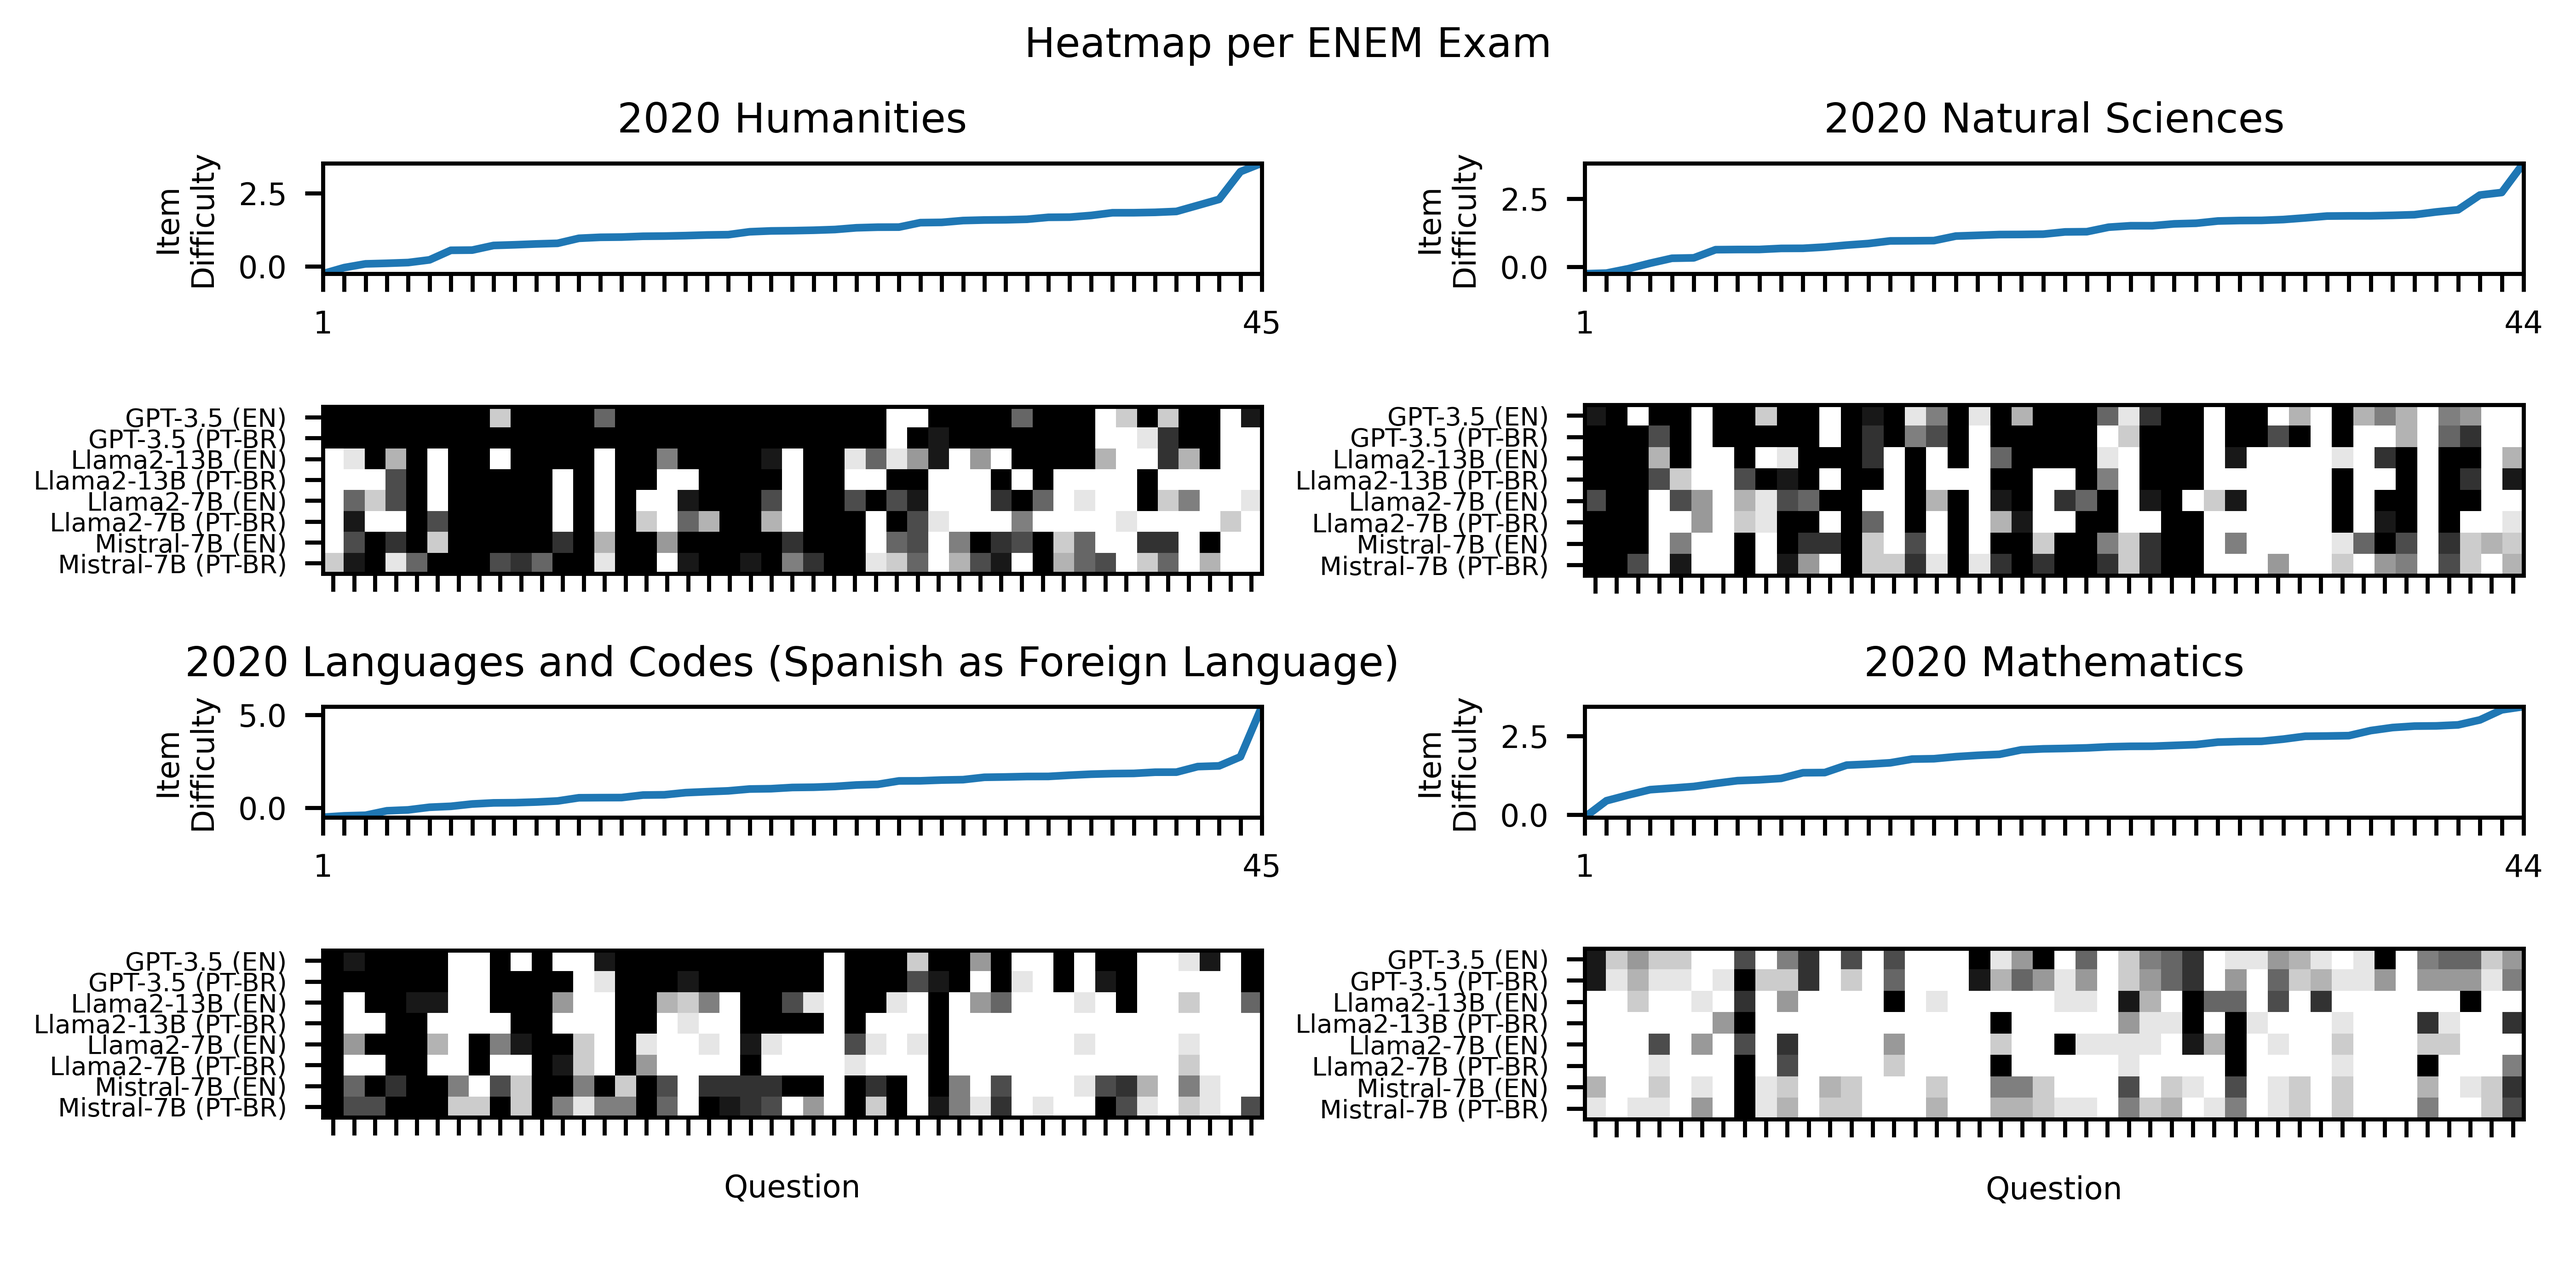
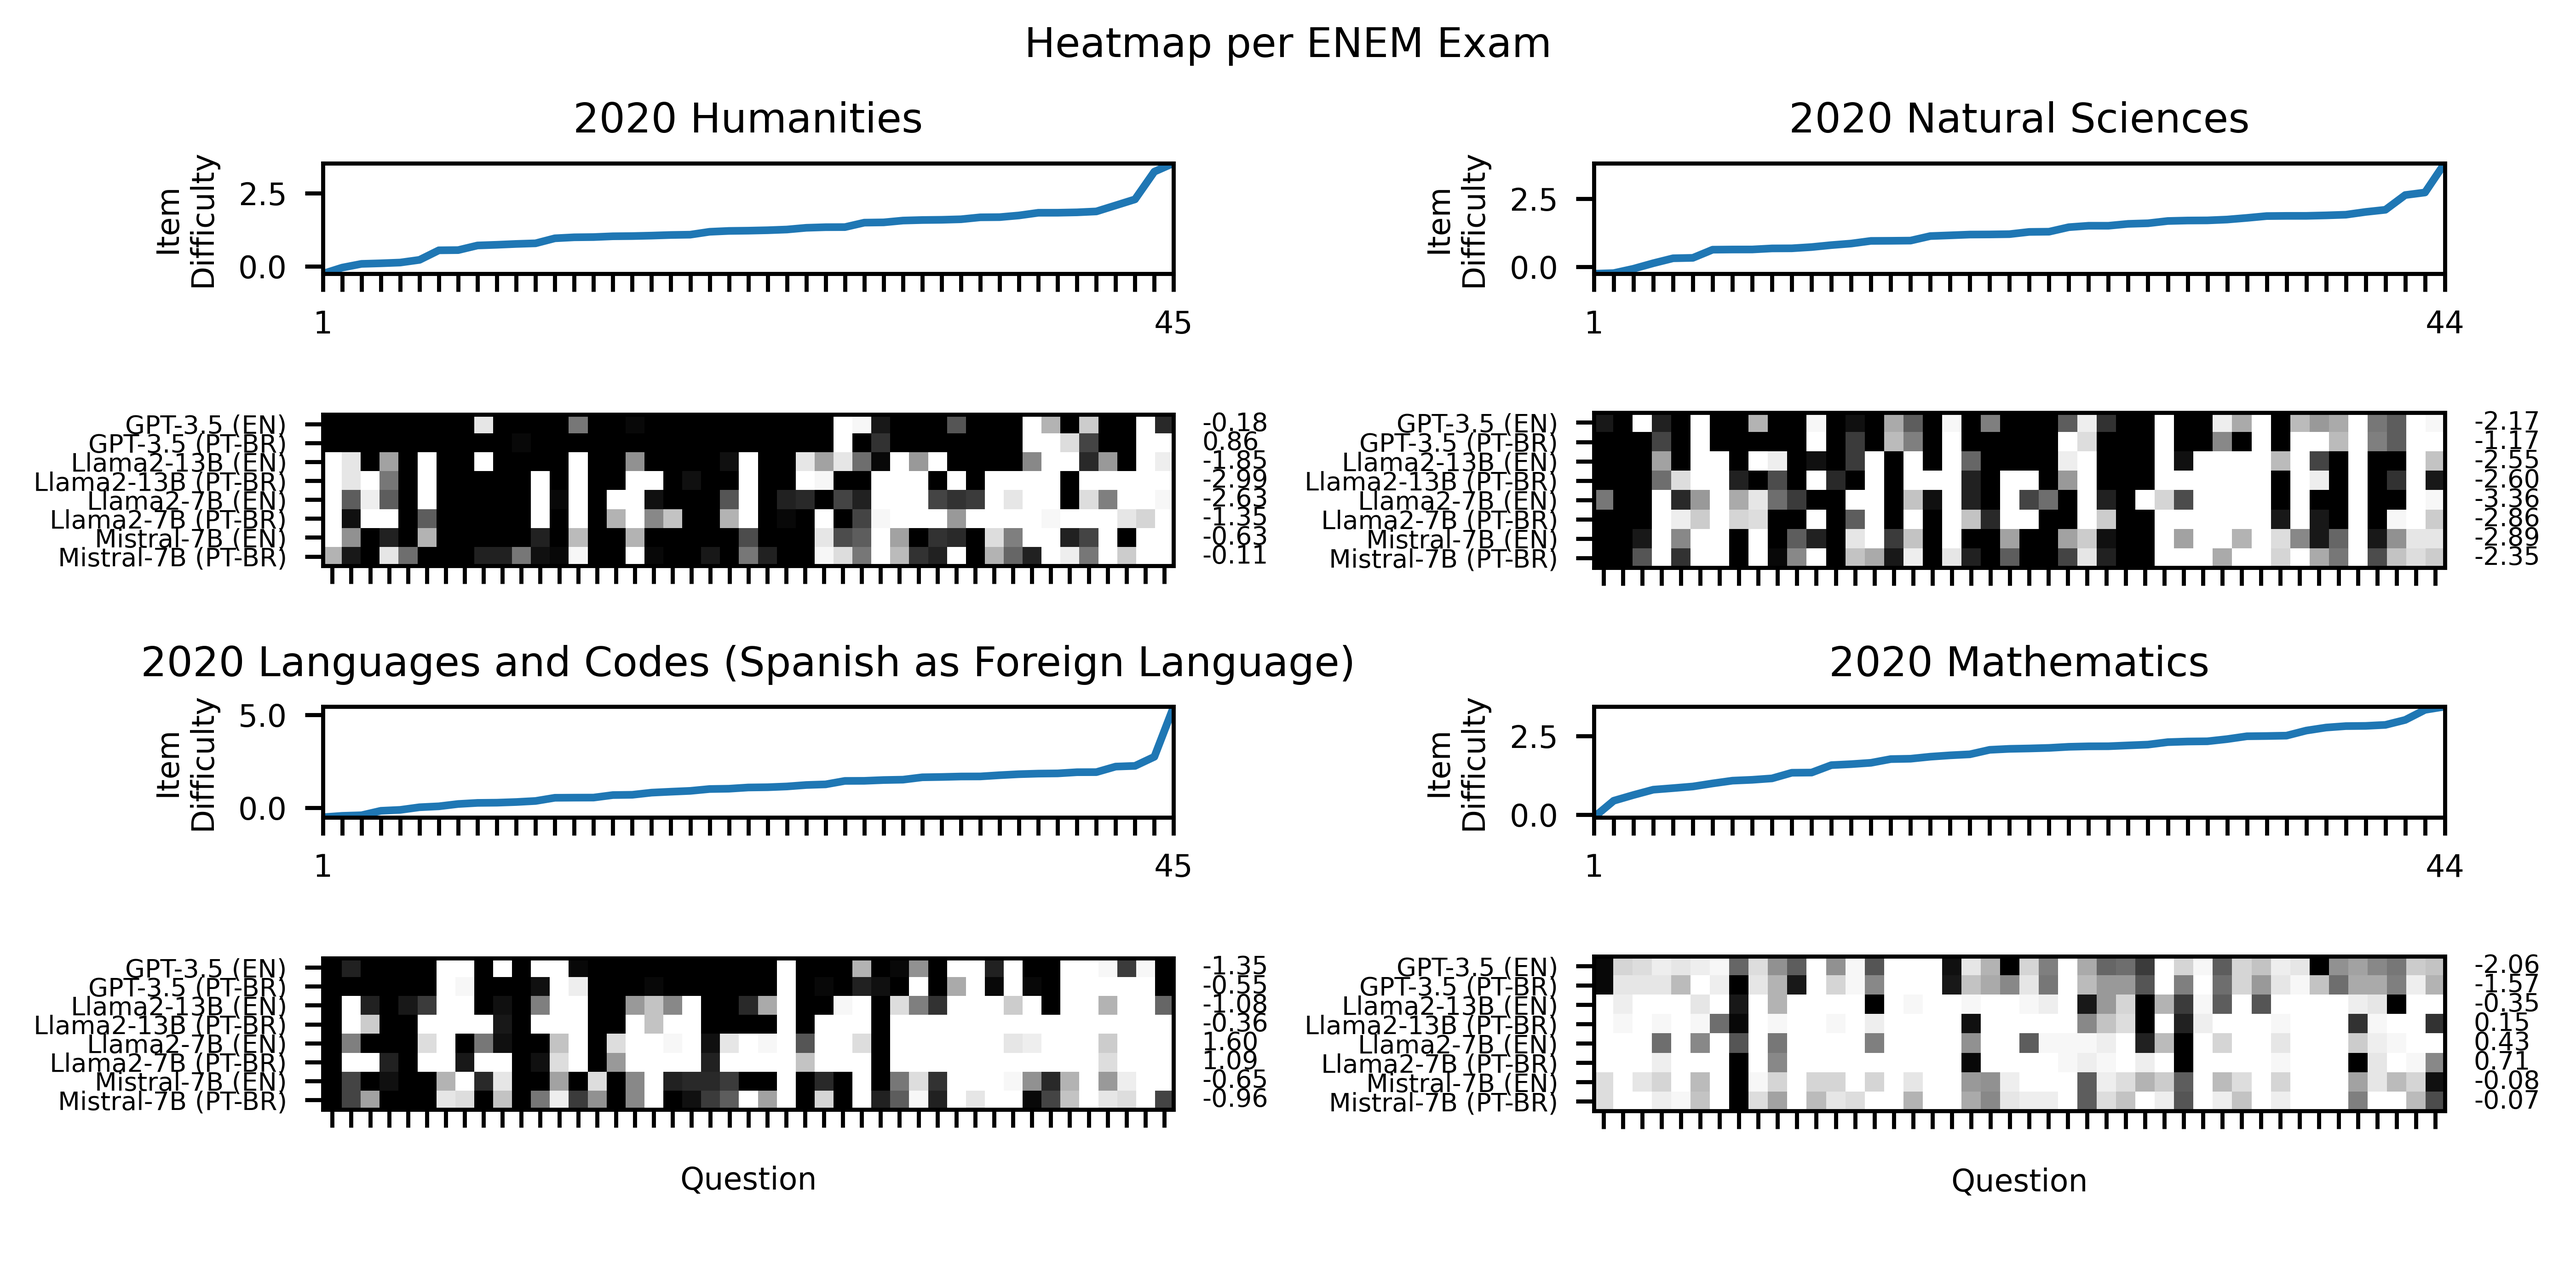
Heatmaps with lz

diff --git a/heatmap_plot.py b/heatmap_plot.py
@@ -37,7 +37,7 @@ parser.add_argument("--year", "-y", type=int, required=True, help="Year of ENEM 
 args = parser.parse_args()
 year = args.year
 
-df = pd.read_parquet("enem-experiments-results-processed-with-irt.parquet")
+df = pd.read_parquet("enem-experiments-results-processed-with-irt-lz.parquet")
 df = df[df.ENEM_EXAM.str.contains(f"{year}")]
 
 # concat MODEL_NAME and MODEL_SIZE in one column
@@ -56,6 +56,7 @@ for i, enem_exam in enumerate(df.ENEM_EXAM.unique()):
     sample_df = deepcopy(df[df.ENEM_EXAM == enem_exam])
     sample_df["CO_PROVA"] = sample_df["CO_PROVA"].astype(int)
     matrix_response_pattern = []
+    avg_lz_scores = []
     idx_name = []
     exam = df_items[df_items.CO_PROVA == sample_df.iloc[0, :].CO_PROVA]
     # Remove english as foreign language questions
@@ -67,10 +68,12 @@ for i, enem_exam in enumerate(df.ENEM_EXAM.unique()):
     for full_model in sample_df.FULL_MODEL.unique():
         for language in sample_df.LANGUAGE.unique():
             sample_df_model = sample_df[(sample_df.FULL_MODEL == full_model) & (sample_df.LANGUAGE == language)]
+            avg_lz = sample_df_model.LZ_SCORE.mean()
+            avg_lz_scores.append(avg_lz)
             response_pattern_matrix = np.array(list(sample_df_model.RESPONSE_PATTERN.apply(lambda x: list(x))))
             # Convert each response pattern to a list of integers
             response_pattern_matrix = response_pattern_matrix.astype(int)
-            if response_pattern_matrix.shape != (10, 45):
+            if response_pattern_matrix.shape != (30, 45):
                 print(f"Error in {full_model} {language}")
                 print(response_pattern_matrix.shape)
                 print(response_pattern_matrix)
@@ -81,25 +84,7 @@ for i, enem_exam in enumerate(df.ENEM_EXAM.unique()):
             response_pattern = response_pattern[exam.IDX_POSICAO.values]
             matrix_response_pattern.append(response_pattern)
             idx_name.append(full_model + " " + language)
-
-    # for row in sample_df.itertuples():
-    #     response_pattern = np.array(list(row.RESPONSE_PATTERN)).astype(int)
-    #     response_pattern = response_pattern[exam.IDX_POSICAO.values]
-    #     matrix_response_pattern.append(response_pattern)
-    #     idx_name.append(row.FULL_MODEL + " " + row.LANGUAGE)
-
-    # Change the order of idx_name
-    # desired_order = [
-    #     'gpt-3.5-turbo-0613 None en', 'llama2 13b en', 'llama2 7b en', 'mistral 7b en',
-    #     'gpt-3.5-turbo-0613 None pt-br', 'llama2 13b pt-br', 'llama2 7b pt-br', 'mistral 7b pt-br'
-    # ]
-    # new_ordering = []
-    # for name in desired_order:
-    #     new_ordering.append(idx_name.index(name))
-    
-    # matrix_response_pattern = np.array(matrix_response_pattern)[new_ordering]
-    # idx_name = np.array(idx_name)[new_ordering]
-    
+        
     # Remapping idx_names to pretty names
     idx_name = [name.replace("gpt-3.5-turbo-0613 None en", "GPT-3.5 (EN)") for name in idx_name]
     idx_name = [name.replace("llama2 13b en", "Llama2-13B (EN)") for name in idx_name]
@@ -119,6 +104,10 @@ for i, enem_exam in enumerate(df.ENEM_EXAM.unique()):
     axes[1 if i < 2 else 3, i % 2].set_yticks(np.arange(len(idx_name)), labels=idx_name, fontsize=5)
     axes[1 if i < 2 else 3, i % 2].set_xticklabels([])
     axes[3, i % 2].set_xlabel("Question", fontsize=6)
+
+    # Add the average lz scores as text in the end of each row of the heatmap
+    for j, avg_lz in enumerate(avg_lz_scores):
+        axes[1 if i < 2 else 3, i % 2].text(n_questions+1, j, f"{avg_lz:.2f}", fontsize=5, va="center")
 
     axes[0 if i < 2 else 2, i % 2].plot(range(1, n_questions+1), exam.NU_PARAM_B.values, "-")
     axes[0 if i < 2 else 2, i % 2].set_title(enem_exam, fontsize=8)
